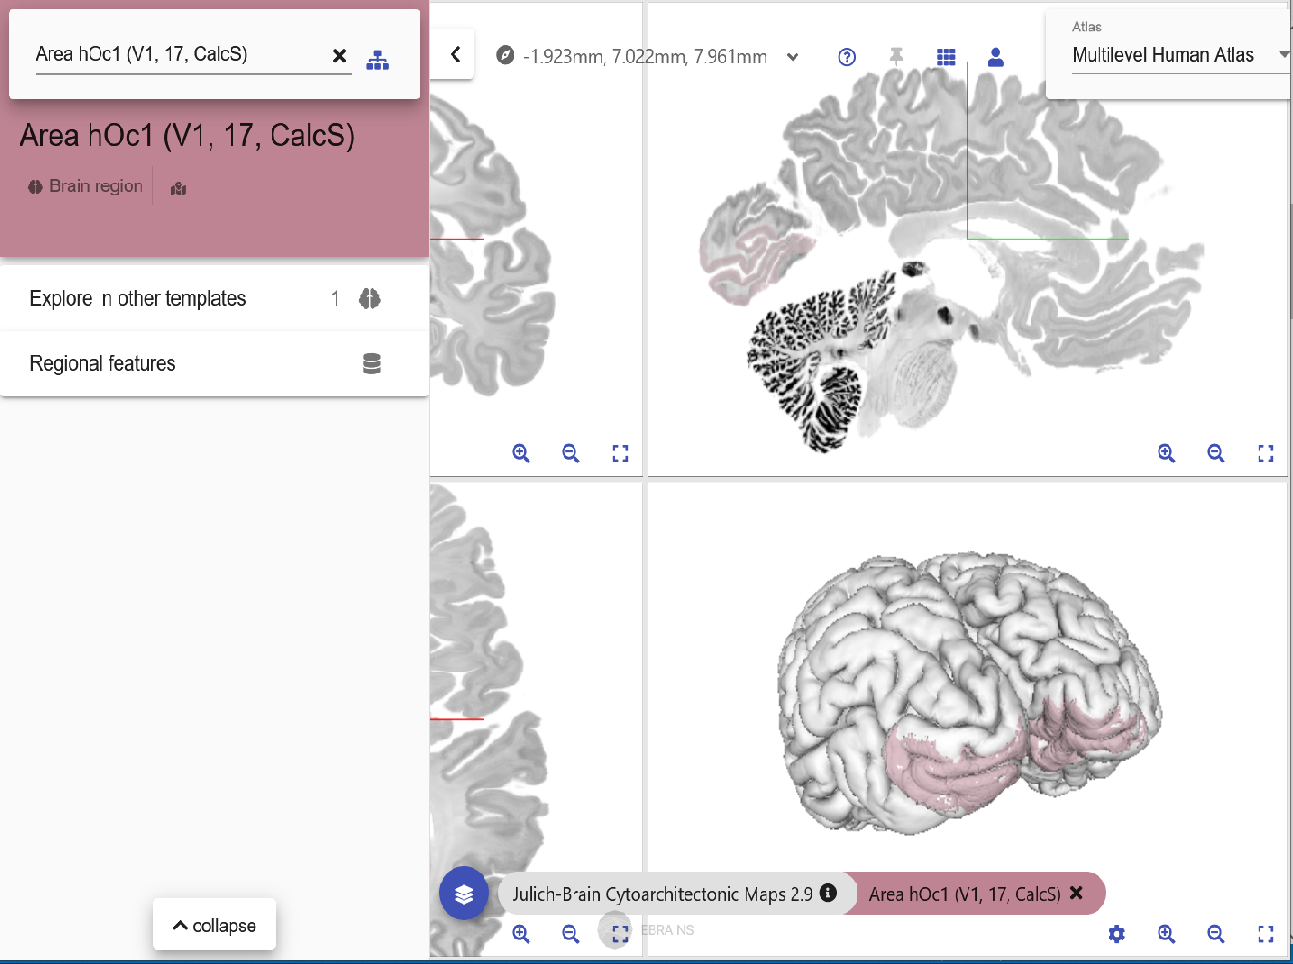
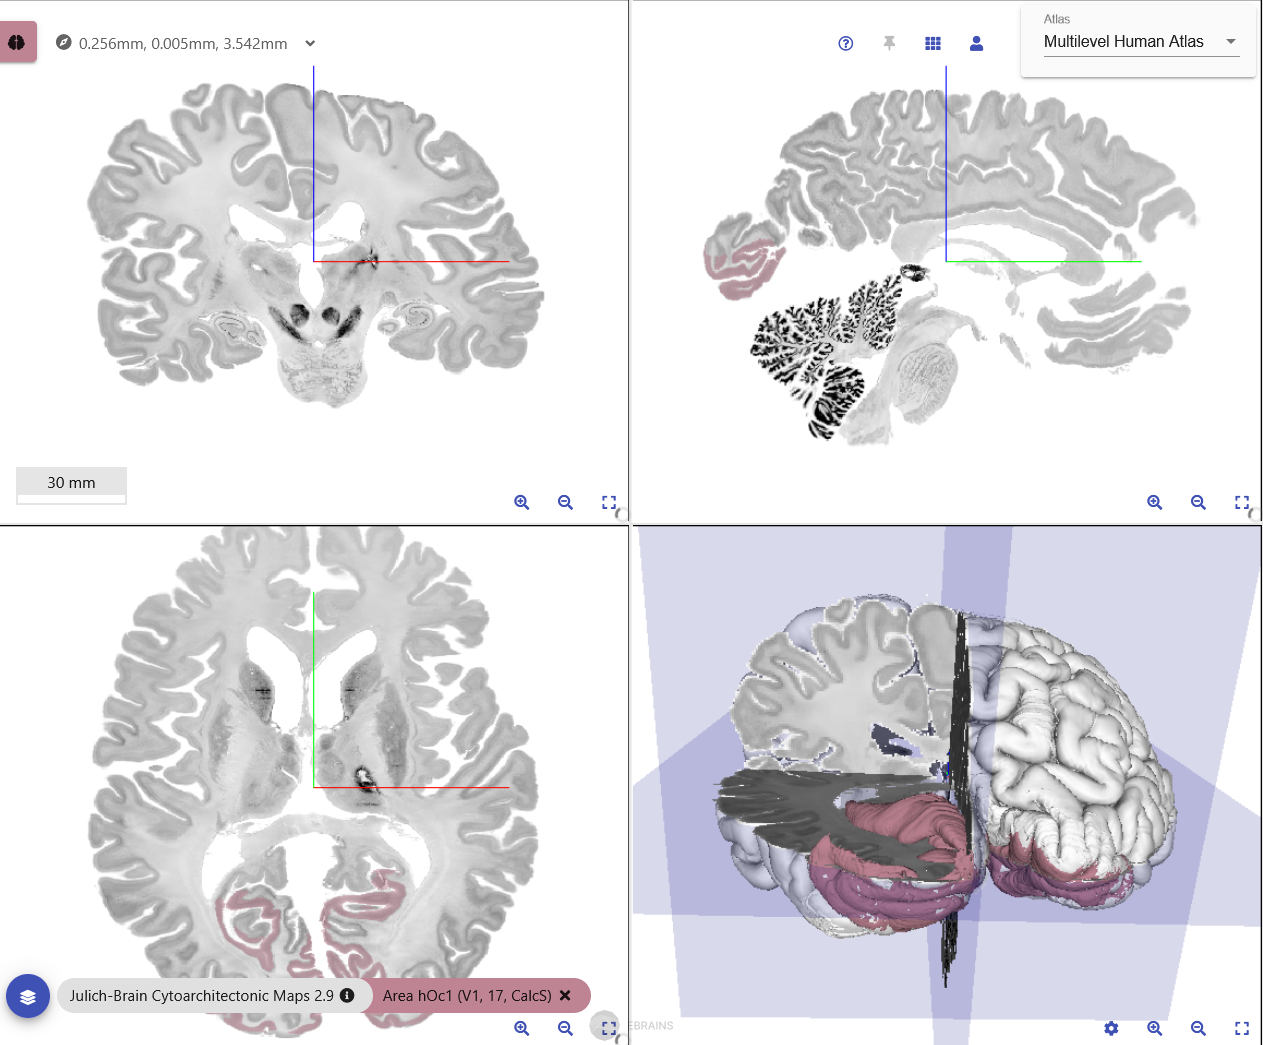
update of selection topic in documentation (new images, new text)

diff --git a/docs/usage/selecting.md b/docs/usage/selecting.md
@@ -31,7 +31,7 @@ There exist several ways of selecting and browsing the parcellated regions in a 
 
 ### Directly from the parcellation map
 
-Each of the regions is represented as a coloured segment in _slice views_ (and in most circumstances, in _3d view_ as well). Click on the segment to select the brain region.
+Each of the regions is represented as a coloured segment in _slice views_ (and in most circumstances, in _3D view_ as well). Click on the segment to select the brain region.
 
 [![](images/BigBrain_hoc1.png)](images/BigBrain_hoc1.png)
 
@@ -39,7 +39,7 @@ Each of the regions is represented as a coloured segment in _slice views_ (and i
 
 Search for regions of interest by using the region search box.
 
-[![](images/BigBrain_hpo1.png)](images/BigBrain_hpo1.png)
+[![](images/BigBrain_hoc1_quicksearch.png)](images/BigBrain_hoc1_quicksearch.png)
 
 
 
@@ -47,22 +47,20 @@ Search for regions of interest by using the region search box.
 
 To view the full hierarchy of region names and relationships between brain regions, `click` the taxonomy button. 
 
-[![](images/taxonomy-view.png)](images/taxonomy-view.png)
+[![](images/BigBrain_hoc1_taxonomy.png)](images/BigBrain_hoc1_taxonomy.png)
 
 
 
 ### Explore the region in other reference templates
-If the parcellation region is available in multiple reference spaces, it is possible to explore them directly from the region context menu.
+If the parcellation region is available in multiple reference spaces, it is possible to explore them directly from the left quick search menu.
 
-Click on a parcellation region (coloured segment) to reveal the region context menu. If the region is available in multiple reference spaces, a `Change template` button will appear. Click on `Change template` button to expand available templates.
+Select a region as described above and open `Explore in other templates` in the left quick search menu. If the region is available in multiple reference spaces, they are displayed here. Then, choose the reference space in which you want to explore the region.
 
-[![](images/selecting_change_template_from_region.png)](images/selecting_change_template_from_region.png)
+[![](images/hoc1_other-templates.png)](images/hoc1-other-templates.png)
 
-In the popout menu, you can jump directly to the region in a different reference template by clicking the corresponding option.
+More information about the selected regions of interest can be retrieved and displayed using the quick search menu, such as descriptions and semantically linked datasets. More detailed information is available in [Searching](search.md).
 
 ## Selecting / Deselecting region(s)
-
-Region(s) of interest may also be selected, which will [fetch and display](search.md) additional information, such as descriptions and semantically linked datasets, about the region(s).
 
 ### From the viewer
 
